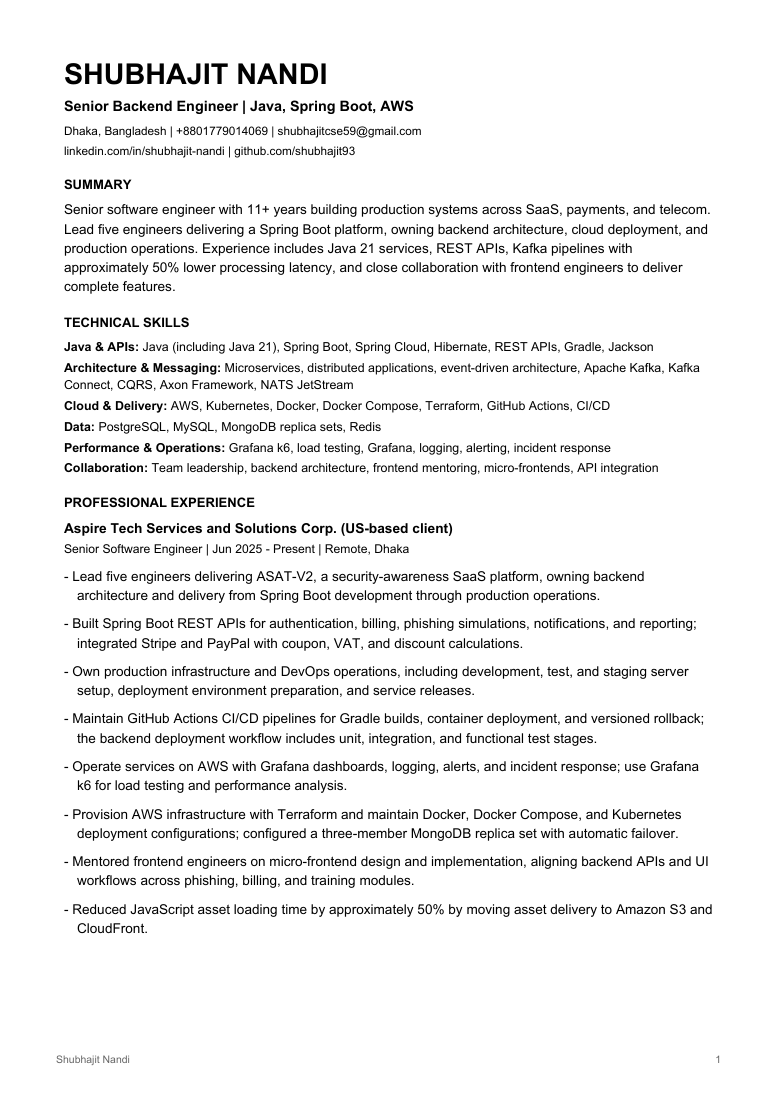
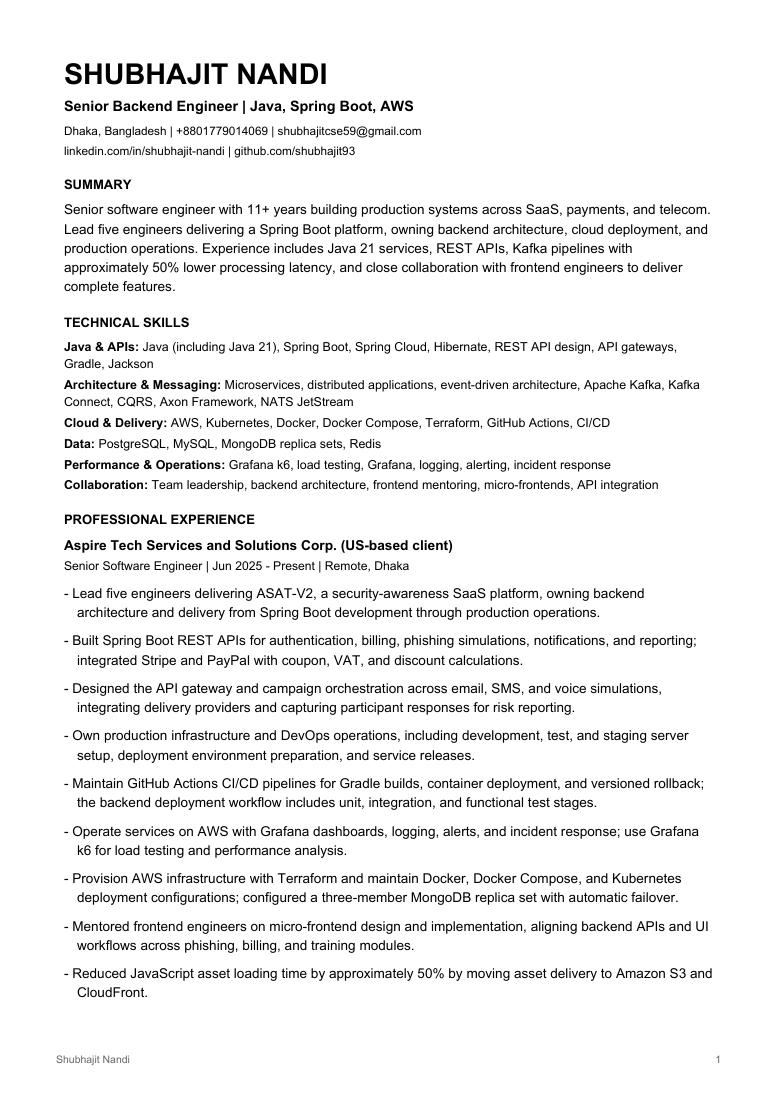
zalando resume

Changed region(s): [[0.0617, 0.3091, 0.9254, 0.9273]]

diff --git a/build_zeos_resume.py b/build_zeos_resume.py
@@ -7,6 +7,7 @@ exec(compile(setup, 'build_resume_versions.py', 'exec'))
 
 B['zeos_lead'] = 'Lead five engineers delivering ASAT-V2, a security-awareness SaaS platform, owning backend architecture and delivery from Spring Boot development through production operations.'
 B['zeos_api'] = 'Built Spring Boot REST APIs for authentication, billing, phishing simulations, notifications, and reporting; integrated Stripe and PayPal with coupon, VAT, and discount calculations.'
+B['zeos_architecture'] = 'Designed the API gateway and campaign orchestration across email, SMS, and voice simulations, integrating delivery providers and capturing participant responses for risk reporting.'
 B['zeos_ops'] = 'Own production infrastructure and DevOps operations, including development, test, and staging server setup, deployment environment preparation, and service releases.'
 B['zeos_ci'] = 'Maintain GitHub Actions CI/CD pipelines for Gradle builds, container deployment, and versioned rollback; the backend deployment workflow includes unit, integration, and functional test stages.'
 B['zeos_monitor'] = 'Operate services on AWS with Grafana dashboards, logging, alerts, and incident response; use Grafana k6 for load testing and performance analysis.'
@@ -17,14 +18,14 @@ versions = [dict(
     title='Senior Backend Engineer | Java, Spring Boot, AWS',
     summary='Senior software engineer with 11+ years building production systems across SaaS, payments, and telecom. Lead five engineers delivering a Spring Boot platform, owning backend architecture, cloud deployment, and production operations. Experience includes Java 21 services, REST APIs, Kafka pipelines with approximately 50% lower processing latency, and close collaboration with frontend engineers to deliver complete features.',
     skills=[
-        ('Java & APIs', 'Java (including Java 21), Spring Boot, Spring Cloud, Hibernate, REST APIs, Gradle, Jackson'),
+        ('Java & APIs', 'Java (including Java 21), Spring Boot, Spring Cloud, Hibernate, REST API design, API gateways, Gradle, Jackson'),
         ('Architecture & Messaging', 'Microservices, distributed applications, event-driven architecture, Apache Kafka, Kafka Connect, CQRS, Axon Framework, NATS JetStream'),
         ('Cloud & Delivery', 'AWS, Kubernetes, Docker, Docker Compose, Terraform, GitHub Actions, CI/CD'),
         ('Data', 'PostgreSQL, MySQL, MongoDB replica sets, Redis'),
         ('Performance & Operations', 'Grafana k6, load testing, Grafana, logging, alerting, incident response'),
         ('Collaboration', 'Team leadership, backend architecture, frontend mentoring, micro-frontends, API integration'),
     ],
-    aspire=['zeos_lead', 'zeos_api', 'zeos_ops', 'zeos_ci', 'zeos_monitor', 'zeos_infra', 'mentor', 'cdn'],
+    aspire=['zeos_lead', 'zeos_api', 'zeos_architecture', 'zeos_ops', 'zeos_ci', 'zeos_monitor', 'zeos_infra', 'mentor', 'cdn'],
     verbex=['java', 'pipeline', 'plugin', 'deploy'],
     dots=['pay', 'sms', 'call'],
 )]
@@ -39,4 +40,11 @@ styles['job'].spaceBefore = 4
 styles['meta'].spaceAfter = 8
 render = 'for v in versions:' + remainder.split("\nguide='''", 1)[0]
 render = render.replace('Dhaka, Bangladesh | Remote (UTC+6) |', 'Dhaka, Bangladesh |')
+render = render.replace("pdf=OUT/(v['slug']+'.pdf')", """pdf=OUT/(v['slug']+'.pdf')
+    if pdf.exists():
+        try:
+            with pdf.open('r+b'):
+                pass
+        except PermissionError:
+            pdf=OUT/(v['slug']+'_Updated.pdf')""")
 exec(compile(render, 'zeos_resume_render', 'exec'))

diff --git a/output/resumes/09_Zalando_ZEOS_Senior_Backend_Engineer.md b/output/resumes/09_Zalando_ZEOS_Senior_Backend_Engineer.md
@@ -12,7 +12,7 @@ Senior software engineer with 11+ years building production systems across SaaS,
 
 ## TECHNICAL SKILLS
 
-**Java & APIs:** Java (including Java 21), Spring Boot, Spring Cloud, Hibernate, REST APIs, Gradle, Jackson  
+**Java & APIs:** Java (including Java 21), Spring Boot, Spring Cloud, Hibernate, REST API design, API gateways, Gradle, Jackson  
 **Architecture & Messaging:** Microservices, distributed applications, event-driven architecture, Apache Kafka, Kafka Connect, CQRS, Axon Framework, NATS JetStream  
 **Cloud & Delivery:** AWS, Kubernetes, Docker, Docker Compose, Terraform, GitHub Actions, CI/CD  
 **Data:** PostgreSQL, MySQL, MongoDB replica sets, Redis  
@@ -27,6 +27,7 @@ Senior software engineer with 11+ years building production systems across SaaS,
 
 - Lead five engineers delivering ASAT-V2, a security-awareness SaaS platform, owning backend architecture and delivery from Spring Boot development through production operations.
 - Built Spring Boot REST APIs for authentication, billing, phishing simulations, notifications, and reporting; integrated Stripe and PayPal with coupon, VAT, and discount calculations.
+- Designed the API gateway and campaign orchestration across email, SMS, and voice simulations, integrating delivery providers and capturing participant responses for risk reporting.
 - Own production infrastructure and DevOps operations, including development, test, and staging server setup, deployment environment preparation, and service releases.
 - Maintain GitHub Actions CI/CD pipelines for Gradle builds, container deployment, and versioned rollback; the backend deployment workflow includes unit, integration, and functional test stages.
 - Operate services on AWS with Grafana dashboards, logging, alerts, and incident response; use Grafana k6 for load testing and performance analysis.
